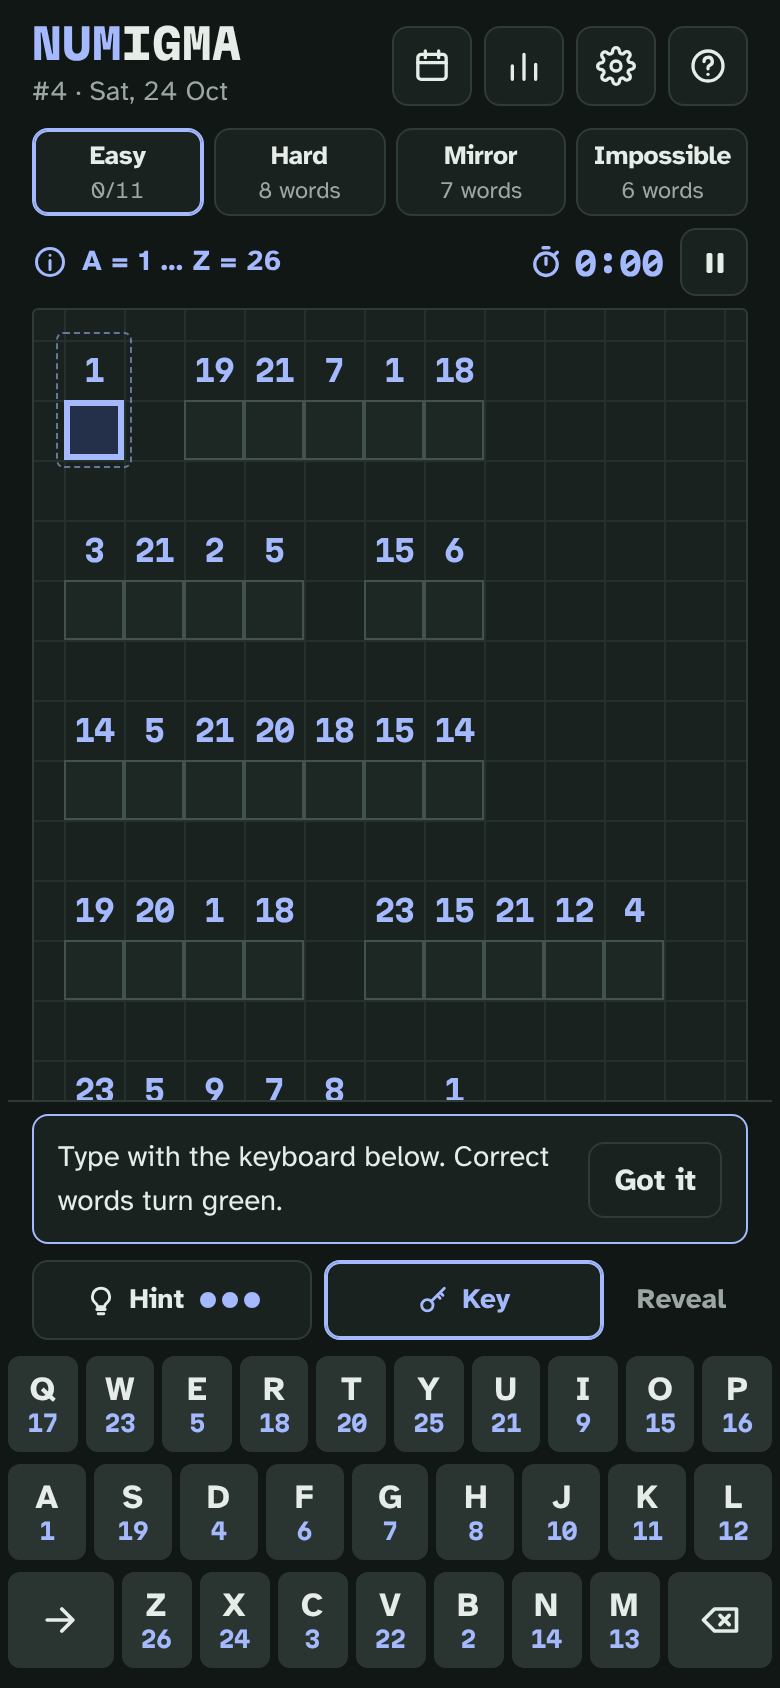
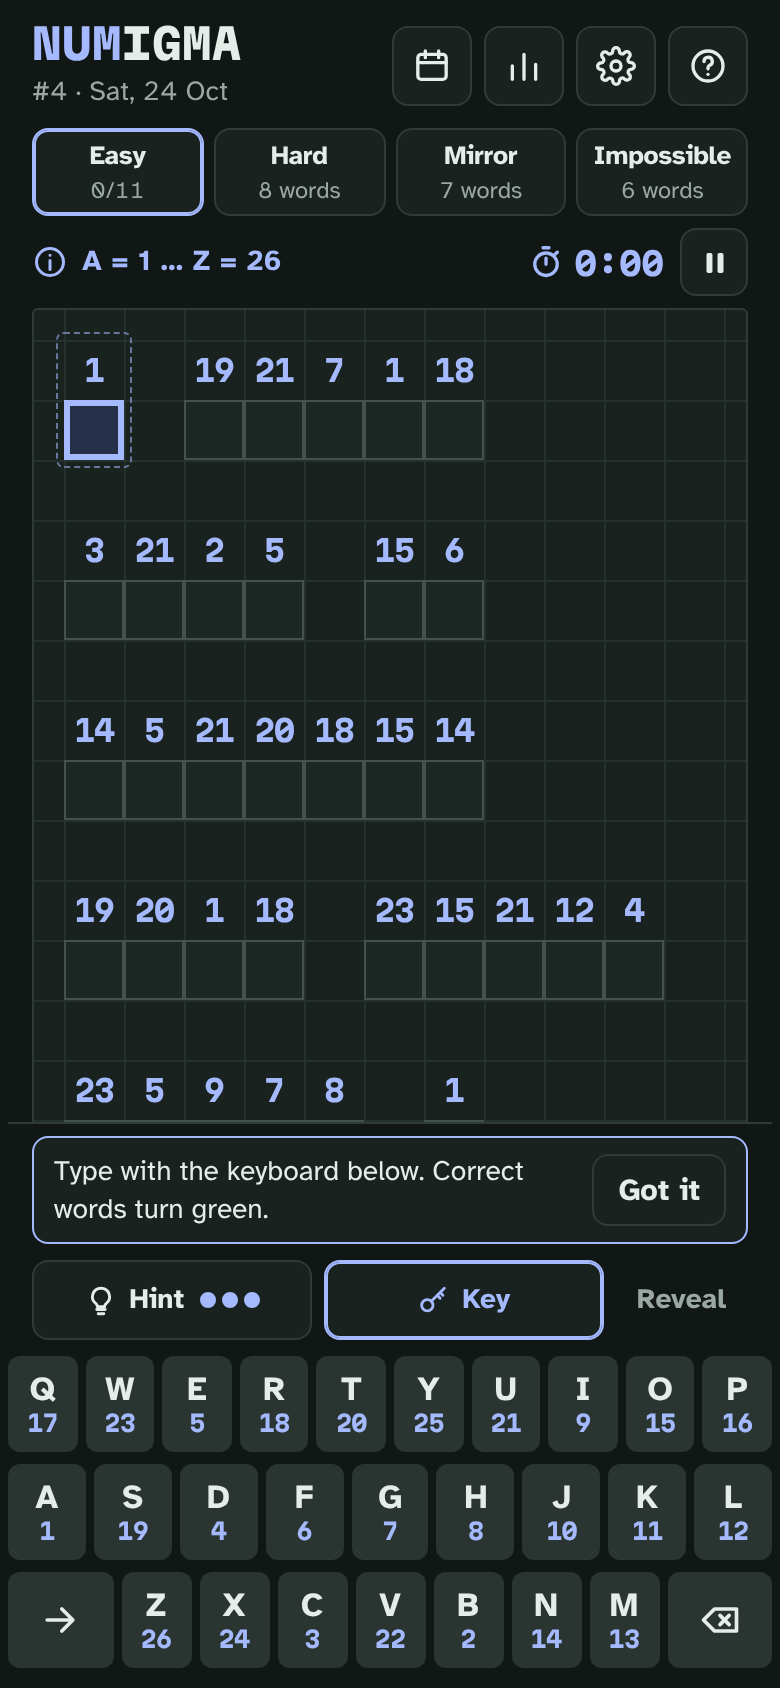
Feinschliff nach Probe als 16- und 60-Jährige: Weitertippen, ruhige gelöste Wörter, kürzere Archivleiste (#5)
* Feinschliff nach Probe als 16- und 60-Jährige: Weitertippen, ruhige gelöste Wörter, kürzere Archivleiste

- Wer nach einem vollen, falschen Wort einfach weitertippt, schreibt im nächsten Wort weiter
  (vorher landete jeder weitere Buchstabe im letzten Kästchen des falschen Worts).
  Antippen und Überschreiben bleibt wie gehabt, „ss“ am Wortende wird weiterhin zu ß.
- Gelöste Rätsel öffnen sich sofort ohne Zahlen; nur ein frisch gelöstes Wort blendet sanft über
  (vorher huschten die Zahlen bei jedem Öffnen über die Buchstaben).
- Hinweis „Schreib mit der Tastatur unten“ verschwindet beim ersten Buchstaben, der Korrektur-Hinweis,
  sobald das Wort stimmt; beide kompakter (mit großer Schrift blieb fürs Rätsel kaum Platz).
- Archivleiste kürzer: „Archiv: #6 vom Mo., 26. Okt.“ mit kleinerem Knopf daneben.
- Tests 62/62 (neu: Weitertippen, gelöste Rätsel ohne Animation, Archivleiste)

Claude-Session: https://claude.ai/code/session_01UizJ3MfA2PHDqjVNM3Cj6o

* Archiv: Hinweis „zählt nicht für die Serie“ im Ergebnis statt in der Leiste

Wer über einen alten Link in einem Archivrätsel landet, sieht nach dem Lösen
„Archivrätsel zählen nicht für die Serie.“ (EN: „Archive puzzles do not count towards your streak.“).
Die Archivleiste bleibt kurz.

Claude-Session: https://claude.ai/code/session_01UizJ3MfA2PHDqjVNM3Cj6o

---------

Changed region(s): [[0.0308, 0.6469, 0.9846, 0.7393]]

diff --git a/index.html b/index.html
@@ -104,9 +104,10 @@ a{color:var(--ink)}
 .banners{flex:none;display:flex;flex-direction:column}
 .banners > :not([hidden]){margin-bottom:8px}
 .banner{display:flex;flex-wrap:wrap;align-items:center;justify-content:space-between;gap:8px;padding:8px 10px;border:1.5px solid var(--ink);border-radius:var(--r);background:var(--sheet);font-size:.92rem;font-weight:700}
-.banner > span{flex:1 1 180px}
+.banner > span{flex:1 1 150px}
 .banner.archive,.banner.note{border-color:var(--line);font-weight:400}
-.banner .btn{min-height:34px;padding:4px 12px}
+.banner .btn{min-height:34px;padding:4px 10px;font-size:.88rem}
+.banner.archive{padding:5px 6px 5px 10px}
 .banner .countdown{font-size:.92em}
 
 /* Stufen */
@@ -172,8 +173,11 @@ a{color:var(--ink)}
 .w.ok.helped .lr::after{content:"";position:absolute;right:-4px;top:-3px;width:7px;height:7px;border-radius:50%;background:var(--marker-text);opacity:.55}
 .w.given .c{color:var(--pencil);box-shadow:inset 0 -2px 0 0 var(--pencil);background:transparent}
 /* Gelöste und aufgelöste Wörter: Die Zahlen verschwinden, das Wort rückt in die Mitte. Größe bleibt gleich, damit nichts verrutscht. */
-.w.ok .dr,.w.given .dr{opacity:0;visibility:hidden;transition:opacity .2s .35s,visibility 0s .55s}
-.w.ok .lr,.w.given .lr{transform:translateY(calc(var(--cell) * -.5));transition:transform .2s .35s}
+.w.ok .dr,.w.given .dr{opacity:0;visibility:hidden}
+.w.ok .lr,.w.given .lr{transform:translateY(calc(var(--cell) * -.5))}
+/* Nur beim frischen Lösen sanft: erst der Marker, dann verschwinden die Zahlen. Beim Öffnen eines gelösten Rätsels steht alles sofort. */
+.w.ok.flash .dr{transition:opacity .15s .25s,visibility 0s .4s}
+.w.ok.flash .lr{transition:transform .2s .4s}
 .w.locked{cursor:default}
 .w.flash::before{animation:swipe .45s ease-out both}
 .w.shake{animation:shake .32s ease-in-out}
@@ -220,6 +224,7 @@ a{color:var(--ink)}
 .result .eyebrow{margin-bottom:6px}
 .result .daydone{margin:0;font-weight:700}
 .result .streak{margin:0;font-size:.92rem}
+.result .streak.note{color:var(--muted)}
 .result .actions{display:flex;flex-wrap:wrap;gap:8px;margin-top:2px}
 .countdown{font-family:var(--display);font-weight:700;font-variant-numeric:tabular-nums;color:var(--ink)}
 
@@ -251,9 +256,10 @@ a{color:var(--ink)}
 .confirm,.coach{display:flex;flex-wrap:wrap;align-items:center;gap:8px;padding:10px 12px;border:1px solid var(--red);border-radius:var(--r);background:var(--sheet)}
 .confirm.calm,.coach{border-color:var(--ink)}
 .confirm span,.coach span{flex:1 1 200px;font-size:.92rem}
-.coach span{flex-basis:140px}
+.coach{padding:7px 10px;gap:6px 8px}
+.coach span{flex-basis:140px;font-size:.88rem;line-height:1.35}
 .confirm .btn,.coach .btn{min-height:38px}
-.coach .btn{padding-inline:12px}
+.coach .btn{padding-inline:12px;min-height:34px}
 
 .kb{display:flex;flex-direction:column;gap:6px;user-select:none;-webkit-user-select:none}
 .kr{display:flex;gap:4px}
@@ -420,7 +426,7 @@ textarea{width:100%;font:inherit;font-size:.95rem;padding:10px;border:1px solid 
 @media (min-width:640px) and (min-height:521px){ .modes .mode .n{font-size:.95rem} }
 @media (prefers-reduced-motion: reduce){
   .w.shake,.w.flash::before,.demo2 .hl{animation:none}
-  .w.ok .c,.w.ok .d,.w.ok .dr,.w.given .dr,.w.ok .lr,.w.given .lr{transition:none}
+  .w.ok .c,.w.ok .d,.w.ok.flash .dr,.w.ok.flash .lr{transition:none}
 }
 @media (forced-colors: active){
   .w.ok::before,.w.given::before{border:2px solid CanvasText;background:Canvas}
@@ -570,7 +576,7 @@ const STR = {
   de: {
     locale: 'de-AT',
     issue: (n, d) => `#${n} · ${d}`,
-    archiveBar: (n, d, r) => `Archiv: #${n} vom ${d}${r ? ` (Wiederholung von #${r})` : ''}. Zählt nicht für die Serie.`,
+    archiveBar: (n, d, r) => `Archiv: #${n} vom ${d}${r ? ` (Wiederholung von #${r})` : ''}`,
     repeatBar: r => `Heute: Wiederholung von #${r}. Neue Fakten sind in Arbeit.`,
     backToday: 'Zum heutigen Rätsel', newday: 'Ein neues Rätsel ist da.', newdayBtn: 'Jetzt spielen', newdayAuto: n => `Neuer Tag, neues Rätsel: #${n}`,
     futureSoon: (n, t) => `Rätsel #${n} erscheint bei dir in ${t}. Bis dahin: das heutige.`,
@@ -618,7 +624,7 @@ const STR = {
     source: 'Quelle', sources: 'Quellen',
     share: 'Ergebnis teilen', next: m => `Weiter mit ${m}`, statsBtn: 'Statistik',
     dayDone: 'Alle vier Codes für heute erledigt. Neue Codes in',
-    streak: n => n === 1 ? 'Deine Serie: 1 Tag' : `Deine Serie: ${n} Tage`,
+    streak: n => n === 1 ? 'Deine Serie: 1 Tag' : `Deine Serie: ${n} Tage`, archiveNoStreak: 'Archivrätsel zählen nicht für die Serie.',
     copied: 'Ergebnis kopiert. Jetzt in WhatsApp & Co. einfügen', copiedBtn: 'Kopiert ✓',
     stats: { title: 'Statistik', played: 'Rätseltage', streak: 'Serie', best: 'Beste Serie', cracked: 'Codes geknackt', byMode: 'Nach Stufe', solved: 'Gelöst', clean: 'Ohne Hilfe', bestTime: 'Bestzeit*', week: 'Letzte 7 Tage',
       weekSr: (d, s) => `${d}: ${s} von 4 am selben Tag gelöst`,
@@ -668,7 +674,7 @@ const STR = {
   en: {
     locale: 'en-GB',
     issue: (n, d) => `#${n} · ${d}`,
-    archiveBar: (n, d, r) => `Archive: #${n} from ${d}${r ? ` (repeat of #${r})` : ''}. Does not count towards your streak.`,
+    archiveBar: (n, d, r) => `Archive: #${n} from ${d}${r ? ` (repeat of #${r})` : ''}`,
     repeatBar: r => `Today: a repeat of #${r}. New facts are on the way.`,
     backToday: 'Today’s puzzle', newday: 'A new puzzle is out.', newdayBtn: 'Play now', newdayAuto: n => `New day, new puzzle: #${n}`,
     futureSoon: (n, t) => `Puzzle #${n} arrives for you in ${t}. Until then, here is today’s.`,
@@ -716,7 +722,7 @@ const STR = {
     source: 'Source', sources: 'Sources',
     share: 'Share result', next: m => `Next: ${m}`, statsBtn: 'Statistics',
     dayDone: 'All four codes done for today. New codes in',
-    streak: n => n === 1 ? 'Your streak: 1 day' : `Your streak: ${n} days`,
+    streak: n => n === 1 ? 'Your streak: 1 day' : `Your streak: ${n} days`, archiveNoStreak: 'Archive puzzles do not count towards your streak.',
     copied: 'Result copied. Paste it into WhatsApp or anywhere else', copiedBtn: 'Copied ✓',
     stats: { title: 'Statistics', played: 'Puzzle days', streak: 'Streak', best: 'Best streak', cracked: 'Codes cracked', byMode: 'By level', solved: 'Solved', clean: 'No help', bestTime: 'Best time*', week: 'Last 7 days',
       weekSr: (d, s) => `${d}: ${s} of 4 solved on the day`,
@@ -993,7 +999,7 @@ function renderHeader() {
   $('#issue').textContent = t.issue(day.number, dateLabel(day.key));
   $('#archiveBar').hidden = !archive && !day.repeatOf;
   $('#backToday').hidden = !archive;
-  if (archive) $('#archiveText').textContent = t.archiveBar(day.number, dateLabel(day.key, 'long'), day.repeatOf);
+  if (archive) $('#archiveText').textContent = t.archiveBar(day.number, dateLabel(day.key), day.repeatOf);
   else if (day.repeatOf) $('#archiveText').textContent = t.repeatBar(day.repeatOf);
   document.title = archive ? `${name} #${day.number}` : `${name} · ${CONFIG.tagline}`;
   renderNotice();
@@ -1233,6 +1239,8 @@ function renderResult() {
     `<p class="more">${esc(p.fact.m)}</p>` +
     (src.length ? `<p class="src">${esc(src.length > 1 ? t.sources : t.source)}: ${src.map(x => `<a href="${esc(x.url)}" target="_blank" rel="noopener noreferrer">${esc(x.name || hostOf(x.url))}</a>`).join(' · ')}</p>` : '') +
     (streak ? `<p class="streak">${esc(t.streak(streak))}</p>` : '') +
+    // Wer über einen alten Link kommt, sieht hier, warum die Serie nicht wächst (die Archivleiste bleibt kurz)
+    (archive ? `<p class="streak note">${esc(t.archiveNoStreak)}</p>` : '') +
     (allDone && !archive ? `<p class="daydone">${esc(t.dayDone)} <span class="countdown" data-countdown></span>.</p>` : '') +
     '<div class="actions">' +
       `<button class="btn primary" type="button" data-act="share">${ICON.share}${esc(t.share)}</button>` +
@@ -1373,6 +1381,13 @@ function typeLetter(L) {
   if (aw == null) return;
   justAdvanced = false;
   const wi = aw, target = lettersOf(wi), n = target.length, cells = cellsOf(s, wi);
+  // Wort voll, aber falsch, und eben das letzte Kästchen getippt: Wer weitertippt, meint das nächste Wort.
+  // Wer ein Kästchen antippt, um es zu korrigieren, überschreibt es wie bisher; „ae“ → Ä geht weiterhin.
+  const digraph = lastIn && lastIn.w === wi && cur === lastIn.next && DIGRAPH[target[lastIn.i]] === lastIn.L + L && cells[lastIn.i] === lastIn.L;
+  if (!digraph && lastIn && lastIn.w === wi && lastIn.i === n - 1 && cur === n - 1 && cells.every(Boolean)) {
+    const nx = nextUnsolved(wi);
+    if (nx >= 0 && nx !== wi) { select(nx, null); return typeLetter(L); }
+  }
   // Bezahlter Schlüssel gilt für genau diesen Buchstaben: Das Wort zählt als „mit Hilfe“
   if (s.keyOpen) { s.keyOpen = false; markHelped(s, wi); renderKeyboard(); renderTools(); }
   // „ae“ → Ä, „ss“ → ß usw., wenn das vorige Kästchen so ein Buchstabe sein soll
@@ -1394,6 +1409,7 @@ function typeLetter(L) {
   cur = nextCursor(cells, at, n);
   lastIn = { w: wi, i: at, L, next: cur };
   setCells(s, wi, cells);
+  if (coachKind === 'first') hideCoach();   // Wer tippt, hat es verstanden
   afterEdit(wi, true);
 }
 
@@ -1401,7 +1417,7 @@ function afterEdit(wi, typed) {
   const s = ms(current), cells = cellsOf(s, wi), t = T();
   if (isSolvedW(wi, s)) {
     flash(wi); buzz('ok');
-    if (coachKind === 'first') { $('#coach').hidden = true; coachKind = null; }
+    if (coachKind === 'first' || coachKind === 'fix') hideCoach();
     announce(t.sayWordOk(wi + 1, puz().words[wi].show.replace(/[.]+$/, '')));
     if (allSolved()) { save(); return complete('solved'); }
     const nx = nextUnsolved(wi);
@@ -1536,6 +1552,7 @@ function openConfirm(kind) {
 function closeConfirm() { confirmKind = null; $('#confirm').hidden = true; $('#tools').hidden = false; }
 
 let coachKind = null;
+function hideCoach() { $('#coach').hidden = true; coachKind = null; }
 function coach(kind) {
   if (store.coach[kind]) return;
   store.coach[kind] = true; save();

diff --git a/_dev/tests/spiel.test.js b/_dev/tests/spiel.test.js
@@ -648,6 +648,81 @@ test('Gelöste Wörter zeigen nur noch das Wort, die Zahlen darüber verschwinde
   await page.context().close();
 });
 
+test('Gelöste Rätsel öffnen sich ohne Zahlen-Animation, nur frisch gelöste Wörter blenden sanft über', async () => {
+  const page = await openPage(env, { motion: true });
+  await page.click('#startBtn');
+  const sol = solution(4, 'de', 'easy');
+  await typeWord(page, sol[0]);
+  const fresh = await page.evaluate(() => getComputedStyle(document.querySelector('.w[data-w="0"] .dr')).transitionDuration);
+  assert.notEqual(fresh.replace(/0s,?\s*/g, ''), '', 'beim frischen Lösen gibt es einen Übergang');
+  for (const w of sol.slice(1)) await typeWord(page, w);
+  await page.click('#tab-hard');
+  await page.click('#tab-easy');
+  const reopened = await page.evaluate(() => [...document.querySelectorAll('.w .dr')].map(d => { const c = getComputedStyle(d); return c.visibility + '/' + c.opacity + '/' + c.transitionDuration; }));
+  assert.ok(reopened.every(x => x === 'hidden/0/0s'), reopened.join(' '));
+  noErrors(page);
+  await page.context().close();
+});
+
+test('Schnell tippen: nach einem vollen, falschen Wort geht es im nächsten weiter; Antippen und Überschreiben bleibt', async () => {
+  let page = await openPage(env);
+  await page.click('#startBtn');
+  const typed = async () => (await state(page, K4, 'easy')).typed;
+  await page.keyboard.type('EIX');                       // EIN mit Tippfehler: Wort voll und rot
+  assert.ok(await page.isVisible('.w[data-w="0"].bad'));
+  await page.keyboard.type('ZU');                        // wer weitertippt, meint das nächste Wort
+  assert.deepEqual((await typed()).slice(0, 2), ['EIX', 'ZU']);
+  assert.ok(await page.isVisible('#coach'), 'Hinweis zum Korrigieren erscheint');
+  await page.click('.c[data-w="0"][data-i="2"]');        // Kästchen antippen und überschreiben
+  await page.keyboard.type('N');
+  assert.equal((await typed())[0], 'EIN');
+  assert.equal(await page.isVisible('#coach'), false, 'Hinweis verschwindet, wenn das Wort stimmt');
+  assert.equal(await page.getAttribute('.w[data-w="1"]', 'aria-current'), 'true', 'weiter im angefangenen Wort');
+  await page.keyboard.type('CKERWUERFEL');
+  assert.equal((await typed())[1], 'ZUCKERWÜRFEL');
+  // Antippen des letzten Kästchens eines vollen, falschen Worts: Überschreiben, nicht springen
+  await page.keyboard.type('NEUTRONENSTERX');
+  await page.click('.c[data-w="2"][data-i="13"]');
+  await page.keyboard.type('Q');
+  assert.equal((await typed())[2], 'NEUTRONENSTERQ');
+  assert.equal(await page.getAttribute('.w[data-w="2"]', 'aria-current'), 'true');
+  await page.context().close();
+  // „ss“ am Wortende wird weiterhin zu ß (#20, Impossible: HIEß)
+  page = await openPage(env, { time: '2026-11-09T10:00:00+01:00' });
+  await page.click('#tab-impossible');
+  await page.click('#startBtn');
+  await page.click('.c[data-w="3"][data-i="0"]');
+  await page.keyboard.type('HIESS');
+  const s = await state(page, '2026-11-09', 'impossible');
+  assert.equal(s.typed[3], 'HIEß');
+  assert.ok(await page.isVisible('.w[data-w="3"].ok'));
+  await page.context().close();
+});
+
+test('Archivleiste ist kurz und der Knopf passt daneben; das Ergebnis sagt, dass Archivrätsel nicht für die Serie zählen', async () => {
+  let page = await openPage(env, { url: '?n=2&m=easy', width: 412, height: 800 });
+  assert.equal((await page.textContent('#archiveText')).trim(), 'Archiv: #2 vom Do., 22. Okt.');
+  const h = await page.evaluate(() => Math.round(document.getElementById('archiveBar').getBoundingClientRect().height));
+  assert.ok(h <= 52, `Archivleiste ${h} px hoch`);
+  await page.click('#startBtn');
+  for (const w of solution(2, 'de', 'easy')) await typeWord(page, w);
+  assert.match(await page.textContent('#result'), /Archivrätsel zählen nicht für die Serie\./);
+  assert.doesNotMatch(await page.textContent('#result'), /Deine Serie/);
+  await page.context().close();
+  // Rätsel von heute: Serie statt Archiv-Hinweis; Englisch
+  page = await openPage(env);
+  await page.click('#startBtn');
+  for (const w of solution(4, 'de', 'easy')) await typeWord(page, w);
+  assert.match(await page.textContent('#result'), /Deine Serie: 1 Tag/);
+  assert.doesNotMatch(await page.textContent('#result'), /Archivrätsel/);
+  await page.context().close();
+  page = await openPage(env, { url: '?n=2&m=easy', locale: 'en-GB' });
+  await page.click('#startBtn');
+  for (const w of solution(2, 'en', 'easy')) await typeWord(page, w);
+  assert.match(await page.textContent('#result'), /Archive puzzles do not count towards your streak\./);
+  await page.context().close();
+});
+
 test('Einstellungen erklären „System“, Impossible ermuntert zum Ausprobieren', async () => {
   let page = await openPage(env);
   await page.click('#settingsBtn');

diff --git a/_dev/tests/browser.js b/_dev/tests/browser.js
@@ -19,7 +19,7 @@ async function openPage(env, opt = {}) {
     viewport: { width: opt.width || 390, height: opt.height || 844 },
     locale: opt.locale || 'de-AT', colorScheme: opt.scheme || 'light',
     timezoneId: opt.timezone || 'Europe/Vienna', serviceWorkers: opt.sw ? 'allow' : 'block',
-    hasTouch: !!opt.mobile, isMobile: !!opt.mobile, reducedMotion: 'reduce',
+    hasTouch: !!opt.mobile, isMobile: !!opt.mobile, reducedMotion: opt.motion ? 'no-preference' : 'reduce',
     ...(opt.ua ? { userAgent: opt.ua } : {}),
     permissions: opt.clipboard ? ['clipboard-read', 'clipboard-write'] : []
   });

diff --git a/sw.js b/sw.js
@@ -2,7 +2,7 @@
    Immer zuerst das Netz fragen (so kommen neue Rätsel und Korrekturen sofort an).
    Nur wenn keine Verbindung da ist, wird die zuletzt geladene Fassung aus dem Zwischenspeicher genommen.
    Die Rätsel werden im Browser berechnet, deshalb funktioniert auch ein neuer Tag offline. */
-const CACHE = 'numigma-v11';
+const CACHE = 'numigma-v12';
 const CORE = [
   './', 'index.html', 'kern.js?v=9', 'fakten.js?v=9', 'manifest.webmanifest', 'en/',
   'icon.png', 'icon-192.png',
